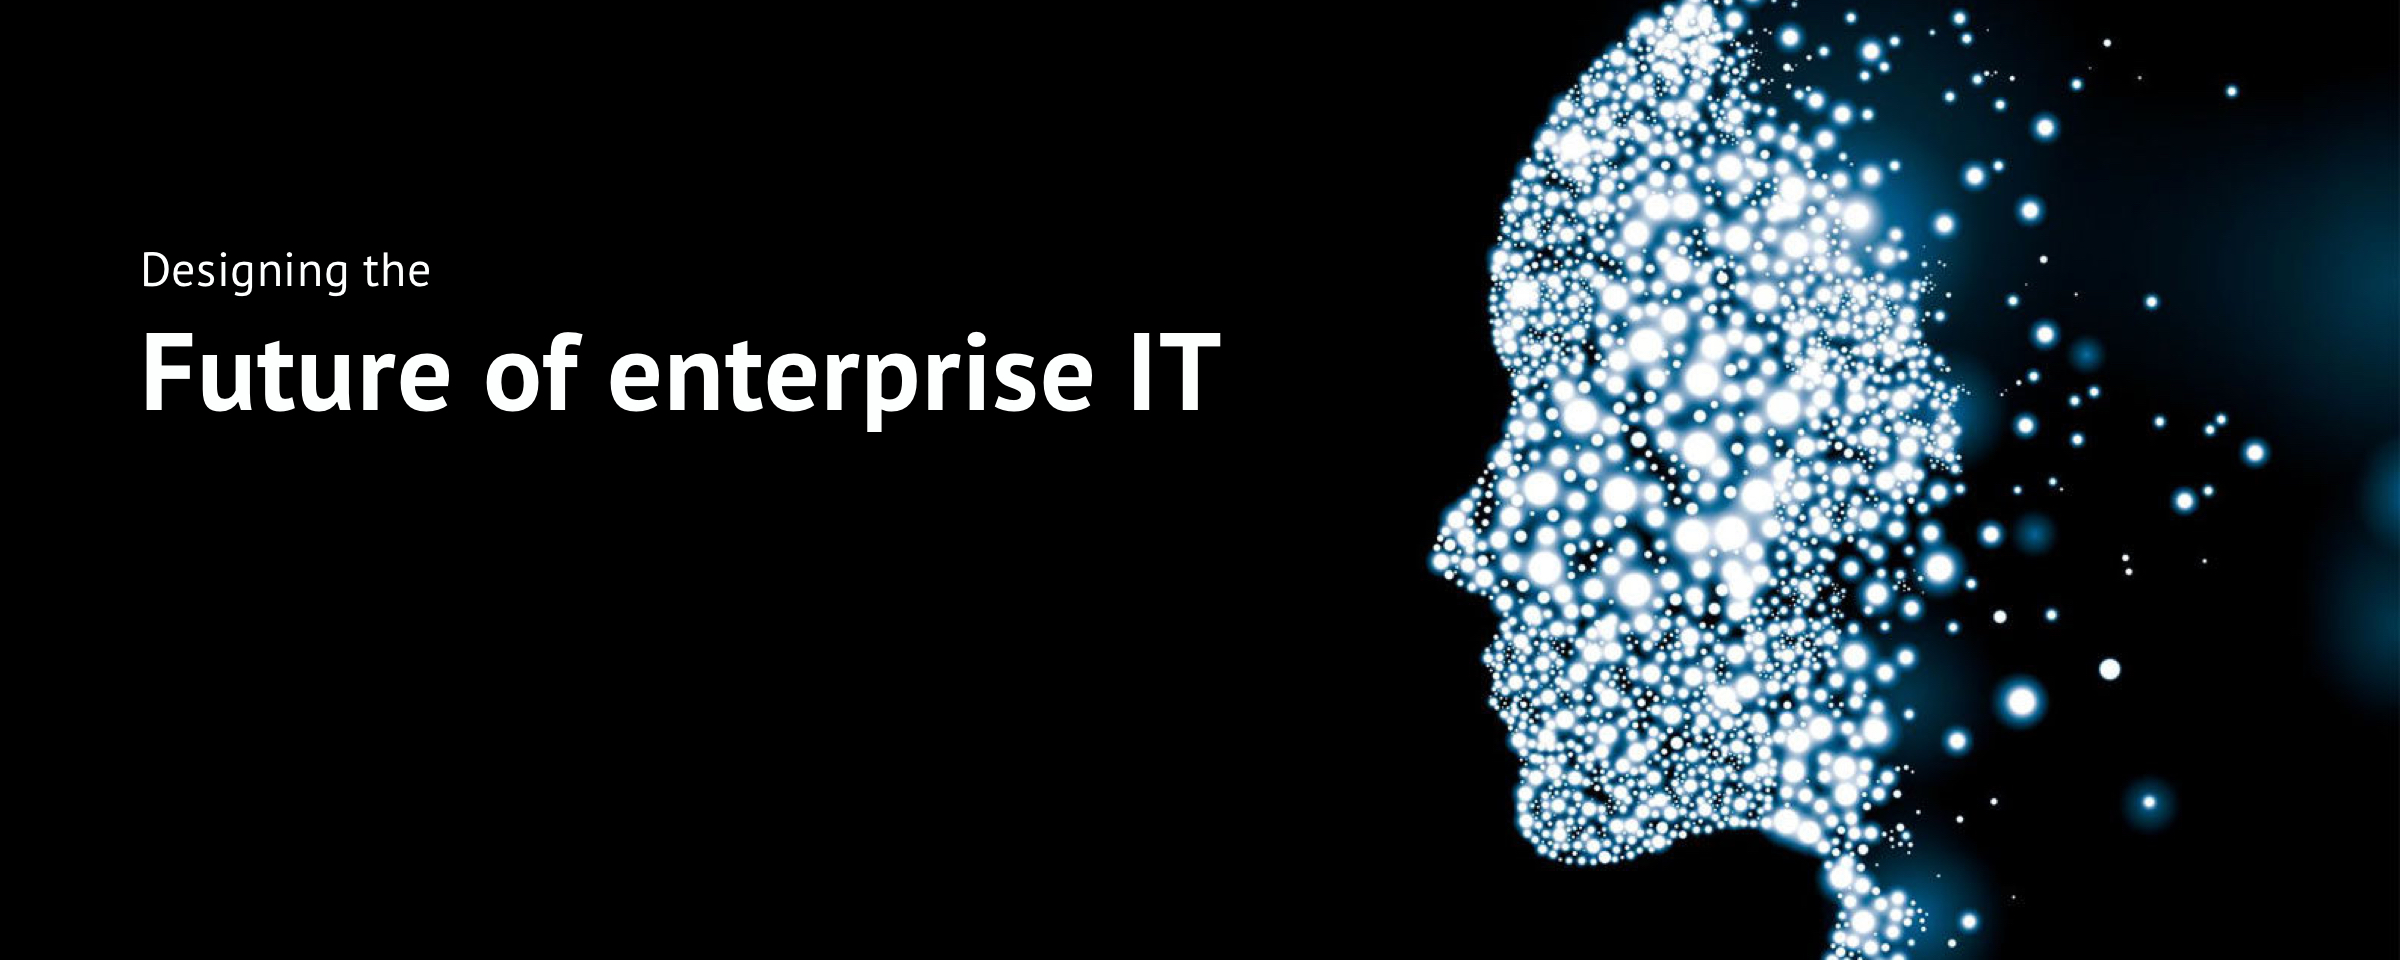
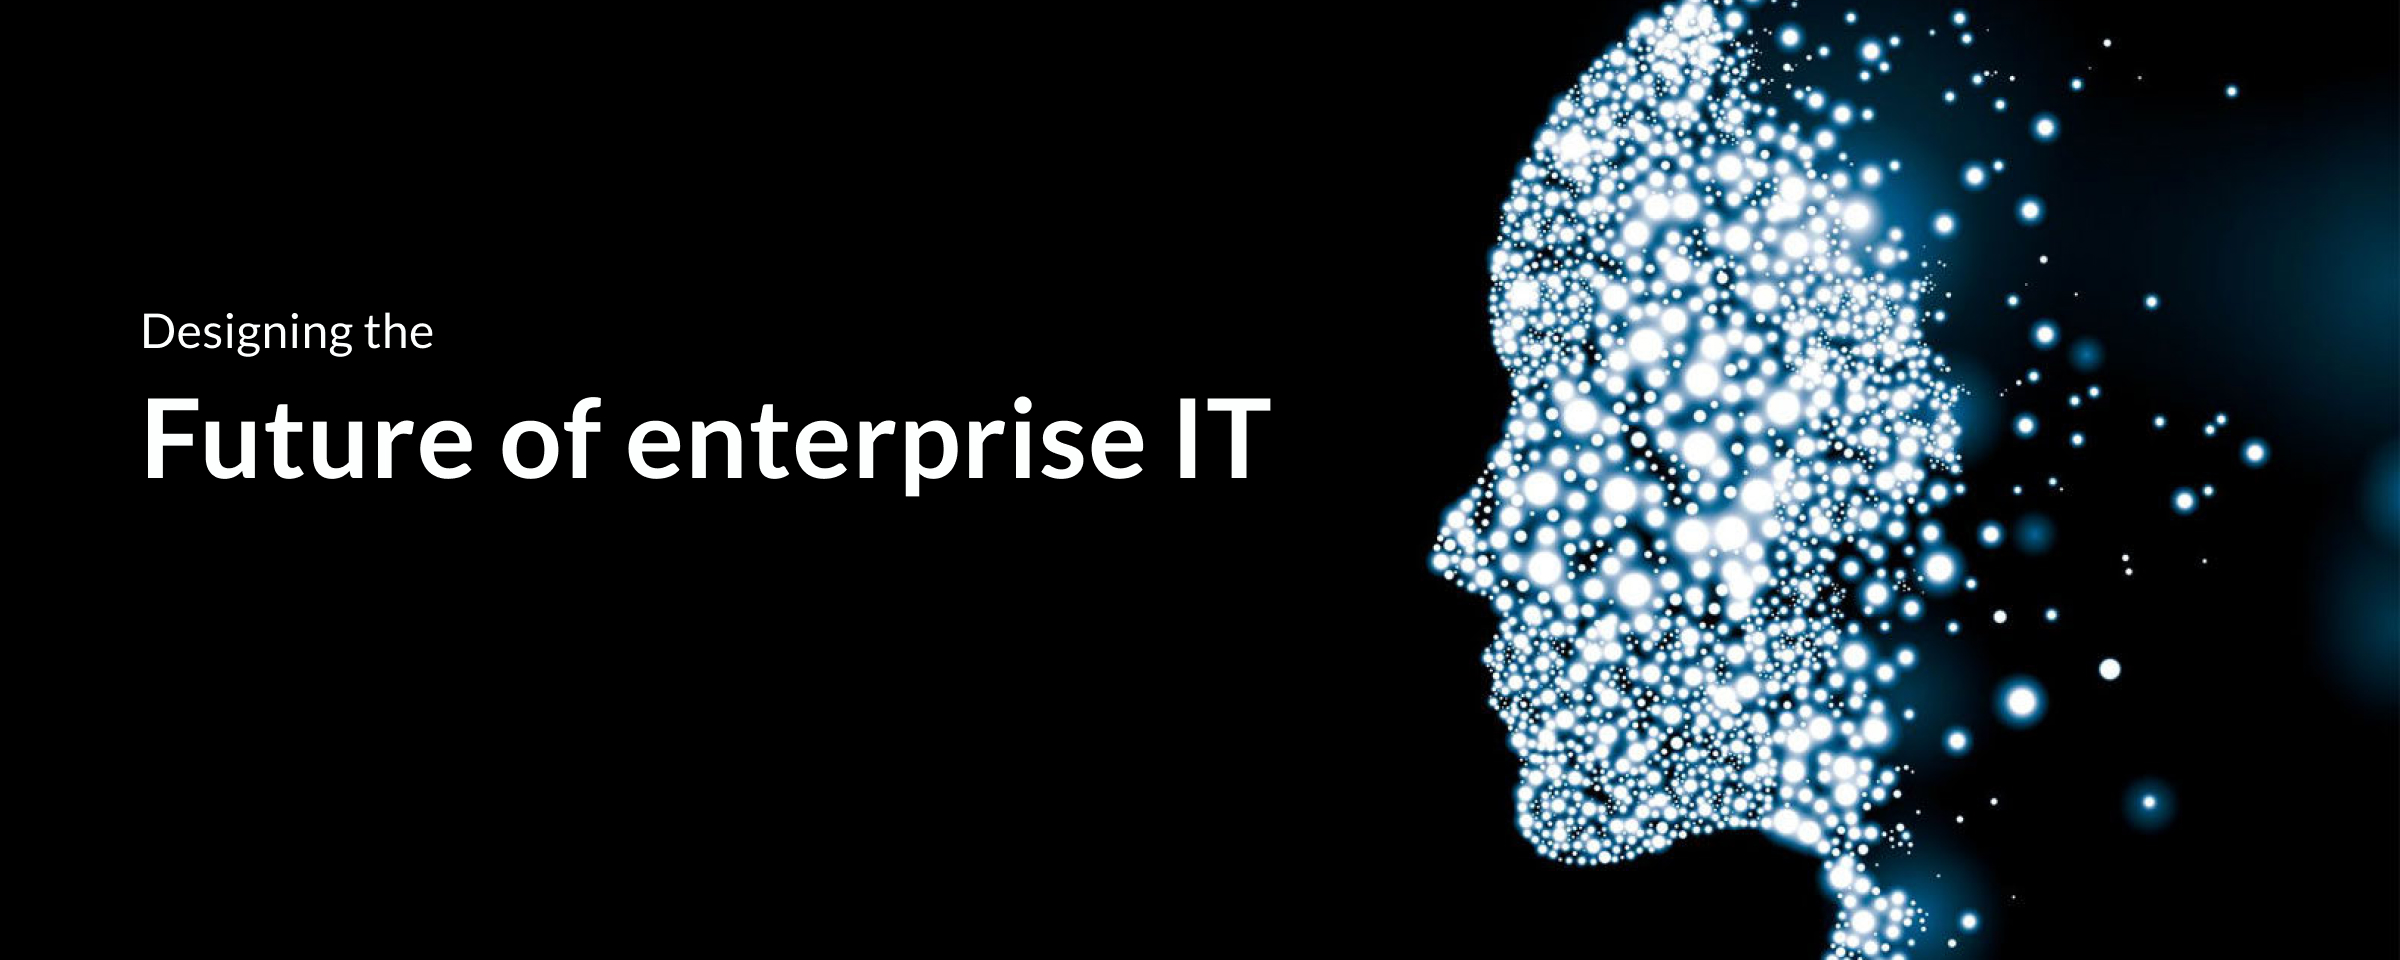
Minor Revamp Turbo
- Text style updates
- Content made simpler

Changed region(s): [[0.0625, 0.25, 0.5312, 0.5312]]

diff --git a/FutureIT.html b/FutureIT.html
@@ -36,103 +36,106 @@
 			<!-- Main Content -->
 			<!-- Intro -->
 				<section id="main" class="container">
-					<div class="box special">
+					<div class="box special" style="background-color: #302F2F;">
 						<span class="image featured"><img src="images/FutureIT/Title.jpg" alt="" /></span>
 						<div class="row aln-center">
 							<div class="col-8 col-12-mobilep">
-								<header>
-									<h4> 
-										In 2012, the world was undergoing an amazing transformation. Usability was taking the centre stage in product design. The businesses were focussing on great user experience, not only for their customers but also for their workers. <br/><br/>  I was a part of an ambitious project to create a powerful cloud platform that enabled businesses to deploy highly customised workflow applications rapidly, without writing a single line of code.
-								    </h4><br/><br/>
-								    <p> 
-								    	To comply with the NDA, I have omitted and obfuscated confidential information in this case study.
-								    </p>
-								</header>
+								<p style="color: #fff; font-weight: 300;"> 
+									In 2018, enterprise-apps market revenue shattered all records— totaling $326 Billion worldwide. But today, when enterprises move at breakneck speed, why even the smallest update in the app takes months to publish? <br/><br/>  I was part of an ambitious project which aimed at reducing this deployment time from months... to minutes
+								</p><br/>
+								<p style="color:#fff; font-style: italic; opacity: 0.3;"> 
+								   	To comply with the NDA, I have omitted and obfuscated confidential information in this case study.
+								</p>
+								
 							</div>
 						</div>
 					</div>
 
 					<!-- Understanding the Landscape -->
 					<div class="box">
-						<h2>Understanding the Landscape</h2>
-						<h3>Tracing the footprints</h3>
+						<h2 style="margin-bottom: 50px;">What goes on behind-the-scenes?</h2>
+
+						<h3>Businesses store critical data in "systems of record", and...</h3>
 						<span class="image fit"><img src="images/FutureIT/Tracing the footprints.jpg" alt="" /></span>
 						<p>
 							Businesses have come a long way from manual bookkeeping of business records to local storage in computer hard-drives. Today they store their critical business data (finance, HR, customer) in cloud platforms such as Salesforce, SAP, Mendix etc (called, Systems of record).
 						</p>
 						<hr/>
-						<h3>Uncovering insights</h3>
+						<br/>
+						<h3>These "systems" are (super-)hard to use, so...</h3>
 						<span class="image fit"><img src="images/FutureIT/Uncovering insights.jpg" alt="" /></span>
 						<p>
 							However, as much as these Systems of record are valued for their ability to generate reports and insight for the company’s management team, they still remain complicated for the workers who engage with the customers on a regular basis, and often require years of expertise.
 						</p>
 						<hr/>
-						<h3>Identifying the need</h3>
+						<br/>
+						<h3>Businesses build custom workflow apps, which require IT support & money, so...</h3>
 						<span class="image fit"><img src="images/FutureIT/Identifying the need.jpg" alt="" /></span>
 						<p>
 							Due to complexity of Systems of record, businesses often have to develop their own workflow applications which are poor in usability and incur high developmental costs and long maintenance and deployment cycles.
 						</p>
 						<hr/>
-						<h3>Recognising the opportunity</h3>
+						<br/>
+						<h3>Need a platform to build custom apps, (super-)fast</h3>
 						<span class="image fit"><img src="images/FutureIT/Recognising the opportunity.jpg" alt="" /></span>
 						<p>
-							There is a dire need of a platform which integrates itself with different Systems of record, helps businesses to create workflow apps rapidly and provides a seamless experience to company workers to engage with the customers effectively.
+							There is a dire need of a platform which integrates itself with different Systems of record, helps businesses to create custom workflow apps rapidly and provides a seamless experience to company workers to engage with the customers effectively.
 						</p>
 					</div>
 
 					<!-- My Role -->
 					<div class="box special">
+						<br/>
 						<h2>My Role</h2>
-						<span class="image fit"><img src="images/FutureIT/In action.jpg" alt="Image: Working with the team"/></span>
+					
 						<div class="row aln-center">
 							<div class="col-8 col-12-mobilep">
-								<h4>
-									I worked with a team of 3 designers to design the entire platform and single handedly managed a major segment that dealt with workers. <br/><br/> Due to pre-schdeuled launch, our team was in extreme pressure to deliver fast. So, we opted for a lean approach which emphasised rapid sketching, prototyping, feedback and design mockups. We worked in one week sprints to deliver our designs.
+								<p>
+									I led the UX design effort for the entire platform for a duration of 10 months. I regularly collaborated with the 2 visual designers to deliver final designs. <br/><br/> In addition, I worked alongside PMs, QA, Management & Dev team at the client side to deliver mockups, wireframes & prototypes. 
 									<br/><br/> 
-									<div style="border-top: solid 2px #e5e5e5; padding-top: 1em">
-										My previous experience in software development was immensely helpful in understanding the underlying architecture of Systems of record and coming up with meaningful design features which adhered to the development deadlines and added value to the product.
+									<span class="image fit"><img src="images/FutureIT/In action.jpg" alt="Image: Working with the team"/>
+									</span>
+									<div>
+										My background in software development helped me understand the technical constraints and provide meaningful designs with ready-to-go market attributes. <br/><br/>
+										<span style="font-weight: bold;">The platform was launched globally on January 5th 2019.
 									</div>
-								</h4>
+								</p>
 							</div>
 						</div>
 					</div>
 
-					<!-- Finding the right audience -->
+					<!-- Knowing our users -->
 					<div class="box">
-						<h2>Finding the right audience</h2>
-						<h3>2 segments, 2 experiences</h3>
+						<h2>Knowing our users</h2>
+						<h3>Detailed discussions with clients helped us come up with 2 distinct user-personas</h3>
+						<br/>
 						<div class="row">
 							<span class="col-6 col-12-mobilep">
 								<div class="image fit"><img src="images/FutureIT/Joe.jpg" alt="App admin image"/></div>
-								<h4 style="font-weight: bold; text-align: center;">App admin</h4>
+								<h4 style="text-align: center;">App admins</h4>
 								<p style="text-align: center;">
 									They have critical role of keeping the applications in the organisation running. They install, update, diagnose, and support applications acquired either from a third-party vendor or from an internal development team.
 								</p>
 							</span>
 							<span class="col-6 col-12-mobilep">
 								<div class="image fit"><img src="images/FutureIT/John.jpg" alt="App admin image"/></div>
-								<h4 style="font-weight: bold; text-align: center;">Company Worker</h4>
+								<h4 style="text-align: center;">Field workers</h4>
 								<p style="text-align: center;">
 									They are the users of these workflow applications. They interact with customers and internal stakeholders on a daily basis. They require these apps to be high in usability and rely on them to get their job done.
 								</p>
 							</span>
 						</div>
 						<hr/>
-						<h3>Usability for everyone, everywhere</h3>
-						<p>								
-							Businesses range from aviation to manufacturing to banking, with each having different job profiles and processes. The challenge here was to create a design, which was flexible enough to accommodate needs of various businesses and usable enough for wide-range of people.<br/><br/>This project required a in-depth research of different profiles, however, due to strict timelines and launch deadline, after discussion with the client, we started with the research about field service industry, as it contained a substantial customer base.
-						</p>
-						<hr/>
-						<h3>Mapping the Personas</h3>
+						<h2>Mapping the Personas</h2>
 						<div class="image fit"><img src="images/FutureIT/John Persona.jpg" alt="App admin persona"/></div>
-						<h4 style="font-weight: bold;">Key insights</h4>
+						<h4>Key takeaways</h4>
 							<ul>
 								<li>Remains on-field most of the time.</li>
 								<li>Connectivity is sporadic, goes offline anytime.</li>
 								<li>Collaborates with other technicians regularly.</li>
 							</ul>
 						<div class="image fit"><img src="images/FutureIT/Joe Persona.jpg" alt="Field Technician persona"/></div>
-						<h4 style="font-weight: bold;">Key insights</h4>
+						<h4>Key takeaways</h4>
 						<ul>
 							<li>Collaborates with end-users to resolve issues.</li>
 							<li>Doesn’t have much knowledge of software development.</li>
@@ -143,14 +146,14 @@
 
 					<!-- Transforming insights into implementation -->
 					<div class="box">
-						<h2>Transforming insights into implementation</h2>
+						<h5>Transforming insights into implementation</h5>
+						<h2>Comprehensive design which matches user needs</h2>
+					
+						<hr>
 						<h3>Smart app creator</h3>
-						<h4 style="color: #999999;">A web only platform for app admins to manage and create new apps</h4><br/>
-						<h4 style="font-weight: bold">Things we kept in mind while designing</h4>
+						<p style="color: #999999;">A web only platform for app admins to manage and create new apps</p>
+						<h4>Insights from the Persona</h4>
 							<ul>
-								<!-- <p style="border-top: solid 2px #e5e5e5; border-bottom: solid 2px #e5e5e5">
-									App admins are neither developers nor designers, we shouldn't bother them with unnecessary tasks of writing the code or creating the UI.
-								</p> -->
 								<li>
 									App admins are neither developers nor designers, we shouldn't bother them with unnecessary tasks of writing the code or creating the UI.
 								</li>
@@ -161,20 +164,25 @@
 									The platform can intelligently create custom apps for admin using the data fetched from Systems of record.
 								</li>
 							</ul>
+							<blockquote>
+								App admins are neither developers nor designers, we shouldn't bother them with unnecessary tasks of writing the code or creating the UI.
+							</blockquote>
 							<div class="image fit"><img src="images/FutureIT/Initial sketches App creator.jpg" alt="Sketches"/></div>
 							<br/>
 							<div class="image fit"><img src="images/FutureIT/Wireframes App creator.jpg" alt="WFs"/></div>
-							<h6 style="font-style: italic; text-align: center;">Designs in collaboration with Rohit Raj.</h6>
 							<hr/>
-							<h3>The intelligent app</h3>
-							<h4 style="color: #999999;">A responsive experience for created apps to make workers super productive</h4><br/>
-							<h4 style="font-weight: bold">Things we kept in mind while designing</h4>
+							<h3>The responsive app</h3>
+							<p style="color: #999999;">Apps which works across platforms so field workers can stay productive everyhere</p>
+							<h4>Insights from the Persona</h4>
 							<ul>
 								<li>
-									Collaboration with admins and colleagues should be seamless. 
+									Online or offline, network connectivity should not affect the work.
 								</li>
 								<li>
-									Should get valuable insights which will help them accomplish tasks quickly.
+ 									Collboration with other technicians or admins should be seamless.
+								</li>
+								<li>
+									App should focus on productivity.
 								</li>
 							</ul>
 							<div class="image fit"><img src="images/FutureIT/Initial concepts Worker app.jpg" alt="Sketches"/></div>
@@ -185,72 +193,33 @@
 					</div>
 
 
-					<!-- Giving the Midas touch -->
+					<!-- The design system -->
 					<div class="box special">
-						<h2>Giving the Midas touch</h2>
-						<h3>Establishing the style</h3>
+						<h2>The Design System</h2>
+						<h4>Giving the midas touch</h4>
 						<div class="image fit"><img src="images/FutureIT/Style guide.jpg" alt="Style guide"/></div>
 						<hr/>
 						<br/>
-						<h3 style="text-align: center">Fabricating the Design System</h3>
+						<h3 style="text-align: center">Aiming for seamless experience</h3>
 						<div class="row aln-center">
 							<div class="col-8 col-12-mobilep">
-								<h4 style="text-align: center;"><!-- border-top: solid 5px #e5e5e5; border-bottom: solid 5px #e5e5e5 -->
-									This is a huge platform with a lot of features in the pipeline. So, it was important for us to create a design system to maintain uniformity in the designs of various modules and for the project handover in the future.
-								</h4>
+								<p style="text-align: center;">
+									It was important for us to create a design system, to ensure consistent cross-platform experience.
+								</p>
 							</div>
 						</div>
 						<br/><br/>	
 						<div class="image fit"><img src="images/FutureIT/Design system.jpg" alt="Design system"/></div>
 						<hr/>
 						<br/>
-						<h3>Smart app creator</h3>
+						<h2>Smart app creator</h2>
 						<div class="image fit"><img src="images/FutureIT/Design App creator.jpg" alt="Design"/></div>
 						<hr/>
 						<br/>
-						<h3>The intelligent app</h3>
+						<h2>The intelligent app</h2>
 						<div class="image fit"><img src="images/FutureIT/Design calendar.jpg" alt="Design"/></div>
 						<h6 style="font-style: italic; text-align: center;">Designs in collaboration with Dhilip Ganeshan.</h6>
 					</div>
-
-
-					<!-- Just the beginning -->
-					<div class="box special">
-						<h2>Just the beginning</h2>
-						<div class="row aln-center">
-							<div class="col-8 col-12-mobilep">
-								<h4>
-									This is a powerful platform with a ton of possibilities, and we are just getting started. With more diverse businesses coming in the platform. We are working on more complex challenges. Currently, I'm working on Inventory Management, User Guide, Activity Tracker and Guided Workflows. With more research in the future we aim to bring this platform closer to its ideal vision.<br/><br/>
-									<span style="font-weight: bold">Provide a great experience for everyone, everywhere.</span> 
-								</h4>
-							</div>
-						</div>
-					</div>
-
-
-					<!-- Initial struggle -->
-					<div class="box">
-						<h2>Teaser</h2>
-						<div class="row">
-							<div class="col-8 col-12-mobilep">
-								<h4>
-									During the initial days, nailing the right terminology was a huge challenge. Our conversations went like this:
-								</h4>
-								<p>
-									<span style="font-weight: bold;">Rohit:</span> This thing would help the users.<br/>
-									<span style="font-weight: bold;">Me:</span> Wait… which users are you talking about? <br/>
-									Admins who are users of the platform?<br/>
-									Workers who are users of the app?<br/>
-									Or customers who are users of the product?<br/>
-									<span style="font-weight: bold;">Rohit:</span> Amm… what did I say initially?! :D
-								</p>	
-							</div>
-						</div>
-					</div>
-						
-						
-
-
 				</section>
 
 
